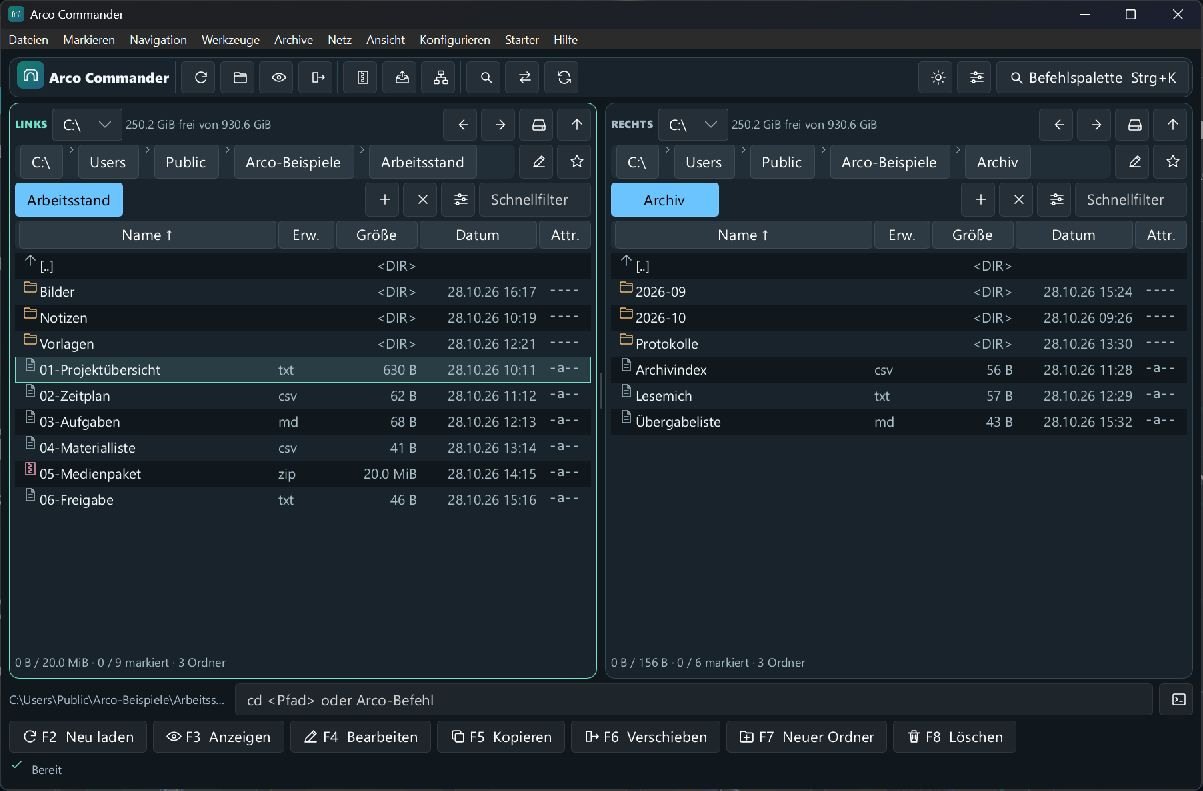
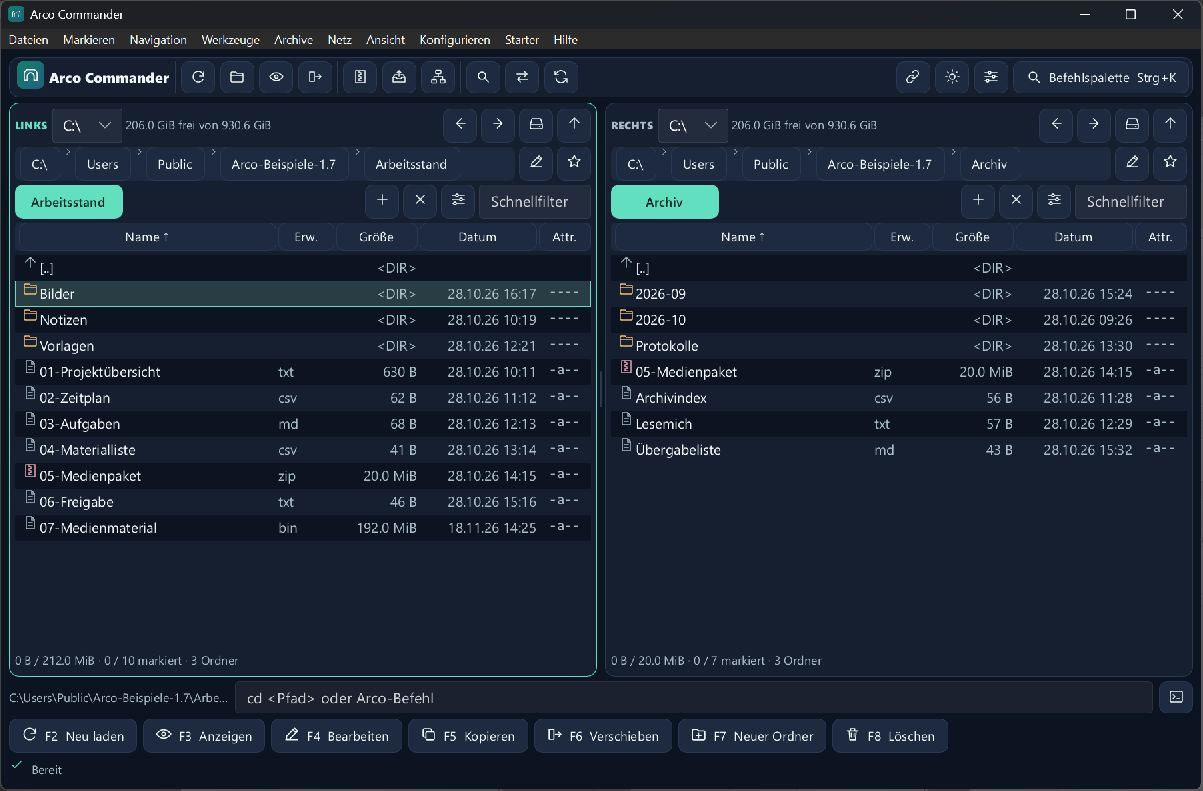
README-Screenshots für Arco Commander 1.7.0 aktualisieren (#11)

diff --git a/README.md b/README.md
@@ -28,13 +28,13 @@ Voraussetzung ist die aktuelle **Microsoft Visual C++ v14-Laufzeit (x64)**; für
 
 ## Einblicke
 
-Die Beispielbilder zeigen Version 1.0.0. Für die überarbeiteten Dialoge enthält die [UI-Prüfliste](docs/UI-PRUEFUNG.md) die erwarteten Arbeitsabläufe. [Nächster Arbeitsblock](docs/WEITERARBEIT.md).
+Die Aufnahmen zeigen Version 1.7.0 mit neutralen Beispieldateien. Die [UI-Prüfliste](docs/UI-PRUEFUNG.md) beschreibt die Bedienabläufe.
 
 ### Kopierfortschritt
 
 Die Fortschrittskarte zeigt die aktuelle Datei und den Stand der Kopie. Über **Im Hintergrund** arbeitest du in den Dateifenstern weiter.
 
-![Kopierfortschritt für ein neutrales Beispielarchiv bei 39 Prozent](docs/screenshots/kopierfortschritt.jpg)
+![Kopierfortschritt mit Prozentanzeige, Durchsatz und geschätzter Restzeit](docs/screenshots/kopierfortschritt.jpg)
 
 ### Lister
 
